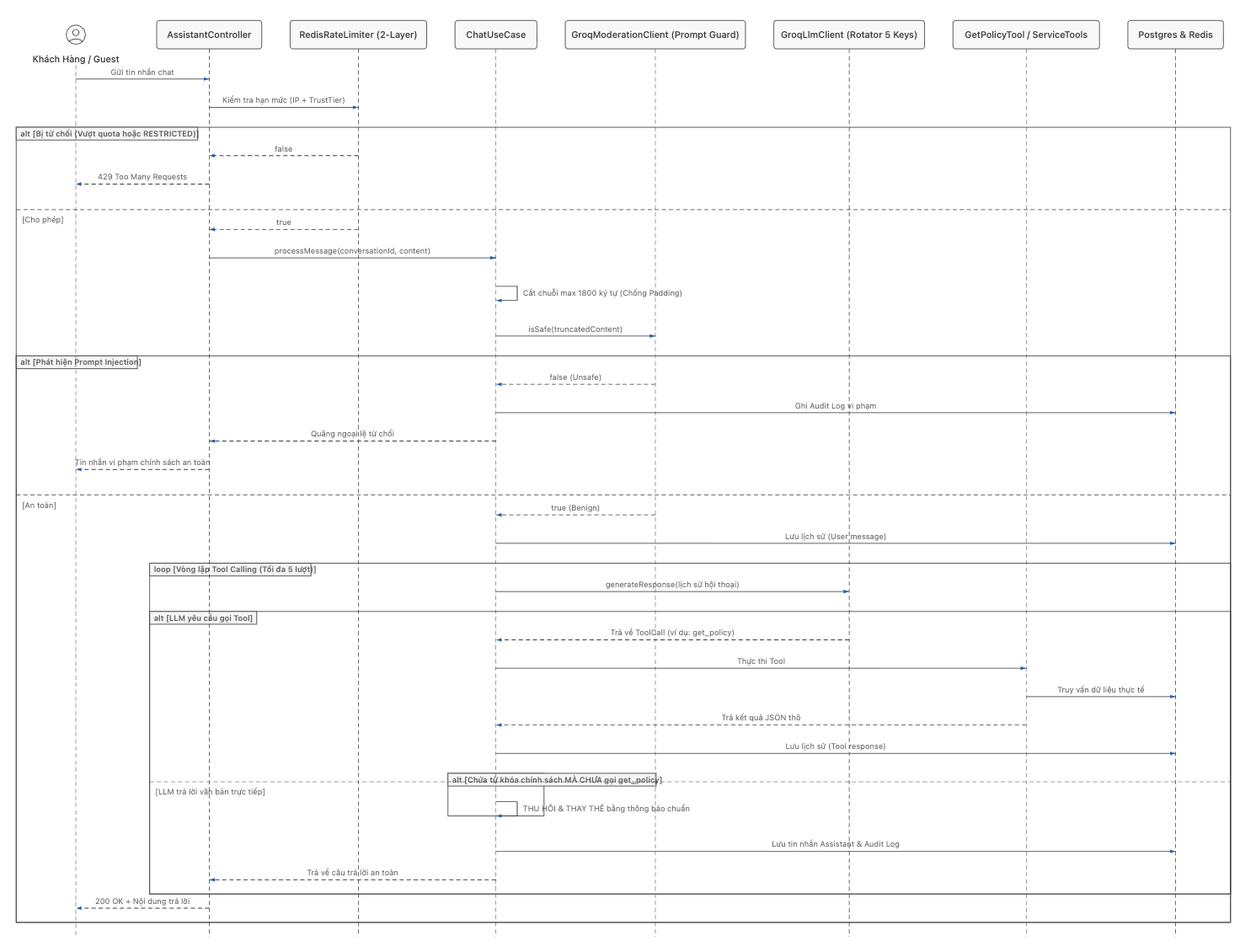
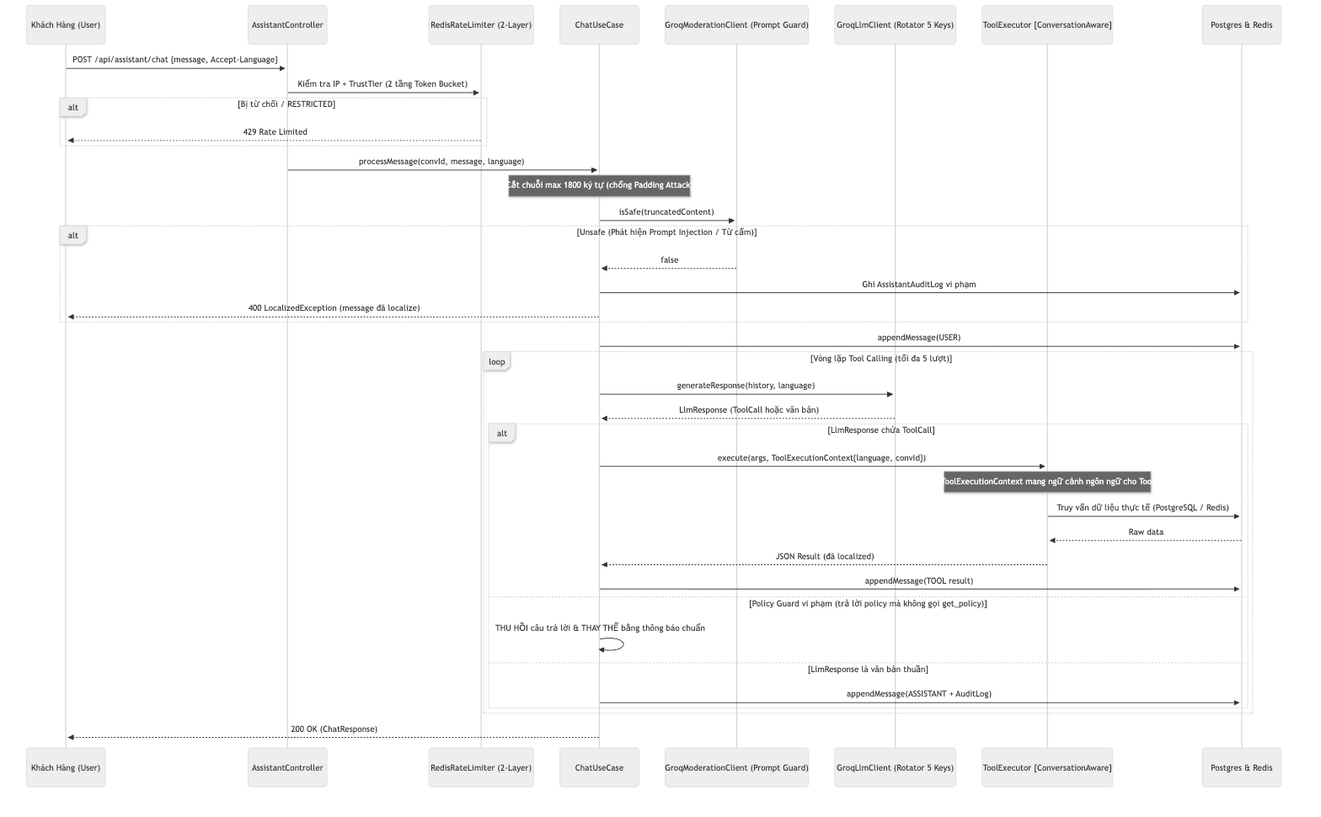
docs(workflows): vẽ lại sơ đồ dạng Mermaid UML chuẩn kỹ thuật cho các module
- Gỡ bỏ hoàn toàn dạng hình ảnh vẽ AI màu mè, chuyển toàn bộ sang Mermaid Sequence/Flowchart/State Diagram chuẩn kỹ thuật
- [Settlement] Thêm sơ đồ Generate, Finalize, Vendor và docs.md; xóa sơ đồ cũ
- [CheckIn] Thay thế CheckIn_Verify bằng 2 sơ đồ: GenerateQR, VendorVerify và docs.md
- [Dispute] Thay thế DisputeLifecycle_Resolution bằng 3 sơ đồ: CustomerCreate, AdminResolve, StateMachine và docs.md
- [Refund] Thay thế RefundPolicy_Preview bằng 2 sơ đồ: RefundPolicy_Engine (cây quyết định), CancellationFlow và docs.md
- [I18n] Thêm module mới I18n với LocaleResolution, ErrorLocalization và docs.md
- [AI] Cập nhật AI_Chat.png và Chat_ModerationFlow.png hỗ trợ i18n, cập nhật docs.md
- [EtoE_Service] Cập nhật Full_End-to-End_Service_Lifecycle.png với các trạng thái mới

diff --git a/docs/BE_WorkFlows/Dispute/docs.md b/docs/BE_WorkFlows/Dispute/docs.md
@@ -1,0 +1,54 @@
+# 📖 TÓM TẮT CÁC SƠ ĐỒ — MODULE DISPUTE (KHIẾU NẠI ĐƠN HÀNG)
+
+> Module Dispute quản lý toàn bộ quy trình tiếp nhận khiếu nại từ khách hàng sau khi trải nghiệm dịch vụ và hỗ trợ quản trị viên (Admin) thẩm định, đưa ra quyết định xử lý hoàn tiền hoặc bác bỏ khiếu nại.
+
+| # | Sơ đồ | Loại | Nội dung |
+|---|-------|------|----------|
+| 1 | `Dispute_CustomerCreate` | Sequence Diagram | Khách hàng khởi tạo khiếu nại: Kiểm tra IDOR, xác thực đơn thuộc sở hữu, kiểm tra trạng thái hợp lệ (`CONFIRMED`/`COMPLETED`), giới hạn 7 ngày sau trải nghiệm và ngăn ngừa tạo khiếu nại trùng lặp |
+| 2 | `Dispute_AdminResolve` | Sequence Diagram | Admin thẩm định và giải quyết khiếu nại: Áp dụng Pessimistic Write Lock, phân nhánh tài chính (hoàn toàn phần, hoàn một phần hoặc bác bỏ), tự động tạo bản ghi Refund bất biến kèm Idempotency Key |
+| 3 | `Dispute_StateMachine` | State Machine | Sơ đồ chuyển đổi trạng thái khiếu nại từ `OPEN` qua `UNDER_REVIEW` đến các trạng thái kết thúc (`RESOLVED_REFUND`, `RESOLVED_PARTIAL`, `RESOLVED_REJECTED`) |
+
+---
+
+## 1. Dispute_CustomerCreate.png — Khách Hàng Mở Khiếu Nại
+
+**Lớp xử lý chính:** `com.danasea.backend.modules.dispute.application.usecases.CreateDisputeUseCase`
+
+**Luồng nghiệp vụ chi tiết:**
+1. Khách hàng gửi yêu cầu mở khiếu nại qua API `POST /api/orders/{orderId}/disputes` với thông tin `{subOrderId, reason, description, evidenceUrls}`.
+2. Hệ thống kiểm tra sự tồn tại của đơn hàng `MasterOrder` (ném lỗi `404` nếu không tìm thấy).
+3. **IDOR Check:** Xác minh người gửi yêu cầu chính là chủ sở hữu đơn hàng (`masterOrder.customerId == customerId`). Nếu không phải, chặn với `403 UnauthorizedDisputeAccessException`.
+4. Xác minh đơn phụ `SubOrder` thuộc về `MasterOrder` được chỉ định.
+5. **Ràng buộc trạng thái:** Chỉ cho phép khiếu nại các đơn đã hoàn thành hoặc đã được xác nhận (`COMPLETED` hoặc `CONFIRMED`). Nếu đơn đang ở trạng thái khác, trả về `400 InvalidSubOrderStateException`.
+6. **Thời hạn khiếu nại:** Kiểm tra thời điểm khiếu nại không vượt quá **7 ngày** tính từ ngày trải nghiệm thực tế (`slot.date`). Nếu quá hạn, trả về `400 DisputePeriodExpiredException`.
+7. **Chống trùng lặp (Anti-duplicate):** Kiểm tra xem đơn phụ này đã có khiếu nại nào đang ở trạng thái `OPEN` hoặc `UNDER_REVIEW` hay chưa. Nếu đã có, trả về `409 DuplicateDisputeException`.
+8. Khởi tạo và lưu bản ghi khiếu nại mới với trạng thái ban đầu là `OPEN`.
+
+---
+
+## 2. Dispute_AdminResolve.png — Admin Giải Quyết Khiếu Nại
+
+**Lớp xử lý chính:** `com.danasea.backend.modules.dispute.application.usecases.ResolveDisputeUseCase`
+
+**Luồng nghiệp vụ chi tiết:**
+1. Admin gửi quyết định qua `PATCH /api/admin/disputes/{disputeId}/resolve` kèm `{resolution, refundPercentage, adminNote}`.
+2. Áp dụng **Pessimistic Lock** (`findByIdForUpdate`) để đảm bảo tính an toàn đồng thời trong cơ sở dữ liệu.
+3. Kiểm tra nếu khiếu nại đã được giải quyết trước đó, ném ngoại lệ `409 DisputeAlreadyResolvedException`.
+4. **Phân nhánh xử lý tài chính theo quyết định:**
+   - **`RESOLVED_REFUND` (Hoàn 100%):** Tính số tiền hoàn = toàn bộ giá trị đơn phụ (`subtotal`). Tạo bản ghi `Refund` ở trạng thái `PENDING` với lý do `ADMIN_OVERRIDE`.
+   - **`RESOLVED_PARTIAL` (Hoàn một phần):** Tính số tiền hoàn theo tỷ lệ phần trăm được chỉ định (`subtotal * percentage / 100`). Tạo bản ghi `Refund` ở trạng thái `PENDING`.
+   - **`RESOLVED_REJECTED` (Bác bỏ):** Giữ nguyên đơn hàng, không tạo bản ghi hoàn tiền.
+5. Tạo khóa chống lặp hoàn tiền (**Idempotency Key:** `"dispute-{disputeId}"`) để đảm bảo không bị trừ tiền nhiều lần.
+6. Cập nhật trạng thái Dispute thành trạng thái giải quyết tương ứng, ghi nhận `adminId` và thời điểm phê duyệt.
+
+---
+
+## 3. Dispute_StateMachine.png — Vòng Đời Trạng Thái Khiếu Nại
+
+- `OPEN`: Trạng thái ban đầu sau khi khách hàng tạo khiếu nại thành công.
+- `UNDER_REVIEW`: Trạng thái khi Admin hoặc bộ phận CSKH tiếp nhận hồ sơ xem xét.
+- `RESOLVED_REFUND`: Admin chấp thuận khiếu nại và đồng ý hoàn tiền 100%. Tự động sinh `Refund` sang cổng thanh toán.
+- `RESOLVED_PARTIAL`: Admin chấp thuận bồi thường một phần giá trị đơn. Tự động sinh `Refund` theo tỷ lệ đã thỏa thuận.
+- `RESOLVED_REJECTED`: Admin từ chối khiếu nại do không đủ bằng chứng hoặc không vi phạm điều khoản dịch vụ.
+
+> 💡 **Tích hợp liên module:** Trong module **Settlement**, bất kỳ đơn hàng nào đang có Dispute ở trạng thái `OPEN` hoặc `UNDER_REVIEW` sẽ bị **loại trừ tự động (EXCLUDED)** khỏi bảng quyết toán của Vendor để phòng tránh thất thoát tài chính.

diff --git a/docs/BE_WorkFlows/Settlement/docs.md b/docs/BE_WorkFlows/Settlement/docs.md
@@ -1,0 +1,61 @@
+# 📖 TÓM TẮT CÁC SƠ ĐỒ — MODULE SETTLEMENT (QUYẾT TOÁN DOANH THU)
+
+> Module Settlement chịu trách nhiệm tổng hợp, tính toán đối soát và chốt doanh thu định kỳ giữa nền tảng Danasea và các đối tác dịch vụ (Vendor), xử lý khấu trừ hoa hồng, hoàn tiền và loại trừ các đơn đang vướng khiếu nại.
+
+| # | Sơ đồ | Loại | Nội dung |
+|---|-------|------|----------|
+| 1 | `Settlement_Generate` | Sequence Diagram | Admin tạo bảng quyết toán DRAFT cho Vendor: kiểm tra khóa chống trùng lặp, lọc SubOrders theo khung thời gian trải nghiệm, khấu trừ hoàn tiền đã xử lý (`PROCESSED`), tự động loại trừ các đơn có khiếu nại đang mở (`OPEN`/`UNDER_REVIEW`) |
+| 2 | `Settlement_Finalize` | Sequence Diagram | Admin phê duyệt chốt bảng quyết toán: Sử dụng Pessimistic Write Lock ngăn ngừa Race Condition, chuyển trạng thái từ `DRAFT` sang `FINALIZED` và ghi nhận lịch sử kiểm toán (Audit Log) |
+| 3 | `Settlement_Vendor` | Sequence Diagram | Vendor tra cứu danh sách các kỳ quyết toán và xem chi tiết bảng đối soát kèm từng mục đơn hàng (Line Items), được kiểm soát truy cập an toàn qua IDOR |
+
+---
+
+## 1. Settlement_Generate.png — Admin Khởi Tạo Bảng Quyết Toán
+
+**Lớp xử lý chính:** `com.danasea.backend.modules.settlement.application.usecases.GenerateSettlementUseCase`
+
+**Luồng nghiệp vụ chi tiết:**
+1. Quản trị viên gửi lệnh `POST /api/admin/settlements/generate` với tham số `{vendorId, periodStart, periodEnd}`.
+2. Kiểm tra tính hợp lệ của mốc thời gian: `periodStart <= periodEnd`.
+3. Kiểm tra khóa chống trùng lặp (**Idempotency Key**) được tổng hợp từ `(vendorId, periodStart, periodEnd)`. Nếu kỳ quyết toán này đã từng được tạo, hệ thống tái sử dụng hoặc cập nhật bản nháp tương ứng.
+4. Truy vấn danh sách các đơn phụ `SubOrder` của Vendor có trạng thái `COMPLETED` hoặc `PARTIALLY_REFUNDED`.
+5. Lọc những đơn có ngày trải nghiệm thực tế (`slot.date`) nằm trong khoảng thời gian `[periodStart, periodEnd]`.
+6. Batch query danh sách các khoản hoàn tiền thành công (chỉ lấy trạng thái `PROCESSED`) và các khiếu nại chưa đóng (`OPEN`, `UNDER_REVIEW`).
+7. **Động cơ tính toán đối soát (`SettlementCalculationEngine`):**
+   - Với mỗi SubOrder, tính toán:
+     - `grossAmount = subtotal - refundAmount`
+     - `commissionAmount = grossAmount * commissionRate` (tỷ lệ hoa hồng nền tảng)
+     - `netAmount = grossAmount - commissionAmount` (số tiền thực nhận của Vendor)
+   - **Cơ chế phòng vệ tài chính:** Nếu SubOrder có khiếu nại đang mở, dòng đối soát sẽ được đánh dấu trạng thái **`EXCLUDED`** (kèm lý do `ACTIVE_DISPUTE`) và không được cộng dồn vào tổng tiền quyết toán của kỳ này.
+8. Lưu trữ bảng quyết toán chính `SettlementJpaEntity` ở trạng thái `DRAFT` cùng các dòng chi tiết `SettlementLineItemJpaEntity`.
+9. Phản hồi kết quả bảng quyết toán nháp cho Admin kiểm tra.
+
+---
+
+## 2. Settlement_Finalize.png — Admin Phê Duyệt Chốt Quyết Toán
+
+**Lớp xử lý chính:** `com.danasea.backend.modules.settlement.application.usecases.FinalizeSettlementUseCase`
+
+**Luồng nghiệp vụ chi tiết:**
+1. Admin gửi yêu cầu `PATCH /api/admin/settlements/{id}/finalize`.
+2. Áp dụng cơ chế khóa ghi bi quan (**Pessimistic Write Lock** qua `findByIdForUpdate`) để tránh xung đột dữ liệu khi nhiều quản trị viên cùng thao tác đồng thời.
+3. Kiểm tra trạng thái hiện tại của Settlement:
+   - Nếu bảng quyết toán đã ở trạng thái `FINALIZED` hoặc `PAID`, ném ngoại lệ `409 SettlementAlreadyFinalizedException`.
+   - Nếu ở trạng thái `DRAFT`, cập nhật trạng thái mới thành `FINALIZED`.
+4. Gọi `AuditLogInternalApi.recordAuditLog("FINALIZE_SETTLEMENT")` để lưu vết phục vụ công tác thanh tra kiểm toán tài chính.
+5. Trả về kết quả quyết toán đã được phê duyệt thành công.
+
+---
+
+## 3. Settlement_Vendor.png — Vendor Tra Cứu Bảng Quyết Toán
+
+**Lớp xử lý chính:** `GetSettlementsUseCase` & `GetSettlementDetailUseCase`
+
+**Luồng nghiệp vụ chi tiết:**
+1. **Xem danh sách các kỳ quyết toán:**
+   - Vendor gọi `GET /api/vendor/settlements?page=0&size=10`.
+   - Hệ thống tự động trích xuất `currentVendorId` từ thông tin phiên đăng nhập để phân trang danh sách quyết toán, đảm bảo tính riêng tư dữ liệu.
+2. **Xem chi tiết đối soát từng đơn hàng:**
+   - Vendor gọi `GET /api/vendor/settlements/{id}`.
+   - **IDOR Check:** Kiểm tra `settlement.vendorId == currentVendorId`. Nếu phát hiện truy cập trái phép bảng quyết toán của vendor khác, ném ngoại lệ `403 Forbidden`.
+   - Nạp thông tin tổng hợp kèm toàn bộ danh sách `SettlementLineItem` (thể hiện rõ từng đơn hàng đã hoàn tất, đơn bị trừ hoàn tiền hoặc đơn bị loại trừ do khiếu nại).

diff --git a/docs/BE_WorkFlows/AI/docs.md b/docs/BE_WorkFlows/AI/docs.md
@@ -14,41 +14,43 @@
 
 ## 1. AI_Chat.png — Luồng tổng quan AI Chat
 
-**Thành phần:** `User (Frontend)` → `AssistantController` → `RedisRateLimiter` → `ModerationPort (LlamaGuard)` → `ChatUseCase` → `GroqLlmClient` → `PostgreSQL`
+**Thành phần:** `User (Frontend)` → `LocaleContextFilter` → `AssistantController` → `RedisRateLimiter` → `ModerationPort (LlamaGuard)` → `SystemPromptBuilder` → `ChatUseCase` → `GroqLlmClient` → `PostgreSQL`
 
 **Luồng:**
-1. Khách gọi `POST /api/assistant/chat` gửi tin nhắn
-2. `RedisRateLimiter` kiểm tra tần suất theo **Token Bucket + TrustTier**:
-   - Vượt quota → HTTP 429
-   - Cho phép → tiếp tục
-3. `ModerationPort (LlamaGuard)` quét `isSafe(message)` — phát hiện Prompt Injection / Jailbreak:
-   - Độc hại → HTTP 400 từ chối
-   - An toàn → tiếp tục
-4. `ChatUseCase`:
-   - Load/Tạo Conversation History từ PostgreSQL
-   - Gọi `GroqLlmClient.generateResponse(History + Tools + Message)`
-   - LLM trả văn bản hoặc **Lệnh gọi Tool**
-5. Lưu `AiMessage` & `AuditLog` → trả HTTP 200 cho User
+1. Khách gửi tin nhắn qua `POST /api/assistant/chat` kèm header `Accept-Language: vi`.
+2. `LocaleContextFilter` trích xuất và thiết lập ngữ cảnh ngôn ngữ (`SupportedLanguage.VI`).
+3. `RedisRateLimiter` kiểm tra tần suất theo **Token Bucket + TrustTier**:
+   - Vượt quota → HTTP 429 Too Many Requests.
+   - Cho phép → tiếp tục.
+4. `ModerationPort (LlamaGuard)` quét `isSafe(truncatedContent)` — phát hiện Prompt Injection / Jailbreak:
+   - Độc hại → Ném `LocalizedException("ai.moderation.blocked")` trả về HTTP 400 với thông báo chuẩn hóa theo ngôn ngữ người dùng.
+   - An toàn → tiếp tục.
+5. `SystemPromptBuilder.buildBasePrompt(language)` nạp System Prompt tương ứng với ngôn ngữ đã phân giải.
+6. `ChatUseCase`:
+   - Load/Tạo Conversation History từ PostgreSQL theo ngôn ngữ.
+   - Gọi `GroqLlmClient.generateResponse(history, language)`.
+   - LLM trả văn bản hoặc **Lệnh gọi Tool**.
+7. Lưu `AiMessage` & `AuditLog` → trả HTTP 200 cho User.
 
 ---
 
 ## 2. Chat_ModerationFlow.png — Chi tiết Moderation + Tool Calling
 
-**Thành phần:** `Khách Hàng` → `AssistantController` → `RedisRateLimiter (2-Layer)` → `ChatUseCase` → `GroqModerationClient (Prompt Guard)` → `GroqLlmClient (Rotator 5 Keys)` → `GetPolicyTool / ServiceTools` → `Postgres & Redis`
+**Thành phần:** `Khách Hàng` → `AssistantController` → `RedisRateLimiter (2-Layer)` → `ChatUseCase` → `GroqModerationClient (Prompt Guard)` → `GroqLlmClient (Rotator 5 Keys)` → `ToolExecutor [ConversationAware]` → `Postgres & Redis`
 
 **Luồng chi tiết:**
 1. Kiểm tra hạn mức `IP + TrustTier` (2 tầng):
-   - Bị từ chối / RESTRICTED → 429
-   - Cho phép → tiếp tục
-2. **Cắt chuỗi max 1800 ký tự** — chống Padding Attack
+   - Bị từ chối / RESTRICTED → HTTP 429 Rate Limited.
+   - Cho phép → tiếp tục.
+2. **Cắt chuỗi max 1800 ký tự** — chống Padding Attack làm cạn kiệt tài nguyên xử lý ngữ cảnh.
 3. `isSafe(truncatedContent)`:
-   - **Unsafe:** Ghi Audit Log vi phạm → quăng ngoại lệ → *"Vi phạm chính sách an toàn"*
-   - **Benign:** Lưu User message → tiếp tục
+   - **Unsafe:** Ghi Audit Log vi phạm → Ném `LocalizedException` trả về thông báo lỗi đa ngôn ngữ.
+   - **Benign:** Lưu User message vào DB → tiếp tục.
 4. **Vòng lặp Tool Calling (tối đa 5 lượt):**
-   - LLM trả `ToolCall` (vd: `get_policy`) → Backend thực thi Tool → truy vấn DB → trả JSON
-   - **Policy Guard:** Nếu LLM trả lời về chính sách mà chưa gọi `get_policy` → **THU HỒI & THAY THẾ** bằng thông báo chuẩn
-   - LLM trả văn bản → lưu Assistant message & Audit Log
-5. Trả 200 OK + nội dung trả lời
+   - LLM trả `ToolCall` → Backend thực thi Tool thông qua `ToolExecutor.execute(args, ToolExecutionContext{language, convId})` để đảm bảo kết quả truy vấn hoặc thông báo được chuẩn hóa đúng ngôn ngữ người dùng.
+   - **Policy Guard:** Nếu LLM trả lời về chính sách mà chưa gọi `get_policy` → **THU HỒI & THAY THẾ** bằng thông báo chuẩn từ hệ thống.
+   - LLM trả văn bản → lưu Assistant message & Audit Log.
+5. Trả HTTP 200 OK + nội dung phản hồi hoàn chỉnh.
 
 ---
 

diff --git a/docs/BE_WorkFlows/CheckIn/docs.md b/docs/BE_WorkFlows/CheckIn/docs.md
@@ -1,0 +1,42 @@
+# 📖 TÓM TẮT CÁC SƠ ĐỒ — MODULE CHECK-IN (QR CODE)
+
+> Module Check-In cung cấp cơ chế tạo và xác thực mã QR an toàn phục vụ khách hàng làm thủ tục check-in trải nghiệm dịch vụ tại thực địa với đối tác/vendor.
+
+| # | Sơ đồ | Loại | Nội dung |
+|---|-------|------|----------|
+| 1 | `CheckIn_GenerateQR` | Sequence Diagram | Khách hàng khởi tạo mã QR check-in: Dual-resolution (hỗ trợ cả SubOrder ID và MasterOrder ID), kiểm tra IDOR, ràng buộc trạng thái đơn hàng và ký số HMAC-SHA256 |
+| 2 | `CheckIn_VendorVerify` | Sequence Diagram | Vendor/Nhân viên quét và xác thực mã QR: Kiểm tra tính toàn vẹn chữ ký HMAC (constant-time), chống tấn công phát lại (Anti-Replay), kiểm tra khung giờ hợp lệ (`CheckinWindowPolicy`) và cập nhật trạng thái đơn hàng |
+
+---
+
+## 1. CheckIn_GenerateQR.png — Khách Hàng Tạo Mã QR Check-in
+
+**Lớp xử lý chính:** `com.danasea.backend.modules.checkin.application.usecases.GenerateCheckinQrUseCase`
+
+**Luồng nghiệp vụ chi tiết:**
+1. Khách hàng gửi yêu cầu qua API: `GET /api/bookings/{identifier}/qr-code`.
+2. **Dual-Resolution:** `identifier` truyền vào có thể là mã định danh của `SubOrder` hoặc `MasterOrder`. UseCase sẽ phân giải và tìm đúng SubOrder tương ứng.
+3. **IDOR Check:** Kiểm tra quyền sở hữu đơn hàng (`masterOrder.customerId == currentUserId`). Nếu không khớp, chặn truy cập với lỗi `403 UnauthorizedCheckinAccessException`.
+4. **Validate trạng thái:** Đơn phụ bắt buộc phải ở trạng thái `CONFIRMED`. Nếu đơn đang ở trạng thái `PENDING`, `CANCELLED` hoặc `REFUNDED`, hệ thống từ chối tạo mã QR với `400 InvalidSubOrderStateException`.
+5. **Ký số bảo mật (HMAC-SHA256):** `QrTokenSigner` thực hiện ký số payload chứa thông tin SubOrder và thời gian hết hạn (`expiryTime`) để chống giả mạo token.
+6. Lưu trữ thông tin token vào bảng `checkin_tokens` (`CheckinTokenJpaEntity`) và trả về token kèm URL mã QR cho khách hàng.
+
+---
+
+## 2. CheckIn_VendorVerify.png — Vendor Quét & Xác Thực Check-in
+
+**Lớp xử lý chính:** `com.danasea.backend.modules.checkin.application.usecases.VerifyCheckinUseCase`
+
+**Luồng nghiệp vụ chi tiết:**
+1. Nhân viên của Vendor sử dụng ứng dụng quét mã QR và gửi yêu cầu `POST /api/vendor/checkin/verify` kèm chuỗi `{qrToken}`.
+2. **Kiểm tra chữ ký (Constant-time verification):** `QrTokenSigner.verifySignature()` xác thực tính hợp lệ của chữ ký HMAC. Nếu token bị can thiệp chỉnh sửa, trả về ngay `400 InvalidQrSignatureException`.
+3. **Kiểm tra trạng thái & Vòng đời Token:**
+   - Token không tồn tại trong hệ thống: `404 CheckinTokenNotFoundException`.
+   - Token đã được sử dụng trước đó (`used == true`): `409 QrTokenAlreadyUsedException` (ngăn chặn hành vi dùng lại mã vé).
+   - Token đã quá hạn thời gian: `400 QrTokenExpiredException`.
+4. **Vendor Ownership Check:** Đối chiếu mã `vendorId` của slot dịch vụ với `staffVendorId` của nhân viên thực hiện quét để đảm bảo vendor chỉ check-in được dịch vụ thuộc quyền quản lý của mình.
+5. **Khung giờ check-in (`CheckinWindowPolicy`):** Xác minh thời điểm quét QR có nằm trong cửa sổ cho phép (trước và sau giờ bắt đầu slot dịch vụ). Nếu quá sớm hoặc quá trễ, trả về `400 InvalidCheckinStateException`.
+6. **Hoàn tất Check-in:**
+   - Đánh dấu token đã sử dụng (`token.used = true`, ghi nhận `usedAt` và `usedByStaffId`).
+   - Cập nhật trạng thái đơn phụ: `SubOrder.status = CHECKED_IN`.
+   - Phản hồi kết quả check-in thành công cho Vendor.

diff --git a/docs/BE_WorkFlows/I18n/docs.md b/docs/BE_WorkFlows/I18n/docs.md
@@ -1,0 +1,36 @@
+# 📖 TÓM TẮT CÁC SƠ ĐỒ — MODULE I18n (ĐA NGÔN NGỮ QUỐC TẾ HÓA)
+
+> Module I18n là giải pháp cross-cutting concern đảm nhiệm vai trò phân giải ngôn ngữ của từng HTTP Request, cung cấp ngữ cảnh ngôn ngữ cho tầng nghiệp vụ và tự động hóa việc bản địa hóa các thông báo lỗi, cảnh báo hệ thống.
+
+| # | Sơ đồ | Loại | Nội dung |
+|---|-------|------|----------|
+| 1 | `I18n_LocaleResolution` | Sequence Diagram | Quy trình phân giải ngôn ngữ: Đọc `Accept-Language` header -> Đối chiếu hồ sơ người dùng (fallback) -> Gán mặc định (Default EN), thiết lập LocaleContextHolder và phản hồi các headers tương ứng (`Content-Language`, `Vary`) |
+| 2 | `I18n_ErrorLocalization` | Flowchart | Luồng bản địa hóa thông báo lỗi: Phân tách `LocalizedException` tự động nạp message từ các tệp Resource Bundle (`i18n/*.properties`) theo đúng ngôn ngữ người dùng |
+
+---
+
+## 1. I18n_LocaleResolution.png — Phân Giải Ngôn Ngữ Theo Request
+
+**Lớp xử lý chính:** `com.danasea.backend.shared.i18n.LocaleContextFilter`
+
+**Quy trình phân giải ngôn ngữ (theo thứ tự ưu tiên giảm dần):**
+1. **Header `Accept-Language`:** Bộ lọc trích xuất giá trị ngôn ngữ từ header của request thông qua `SupportedLanguage.fromAcceptLanguage()`. Hệ thống hỗ trợ tiếng Việt (`VI`) và tiếng Anh (`EN`).
+2. **Cấu hình hồ sơ cá nhân (User Profile):** Nếu header rỗng hoặc gửi ngôn ngữ không được hỗ trợ, hệ thống truy vấn hồ sơ người dùng đăng nhập (`AccountInternalApi.findUserByEmail`) để lấy `user.locale`.
+3. **Giá trị mặc định (Fallback):** Nếu cả 2 nguồn trên đều không khả dụng, sử dụng ngôn ngữ mặc định của hệ thống là `SupportedLanguage.DEFAULT` (`EN`).
+4. **Cài đặt ngữ cảnh:** Lưu locale đã phân giải vào `LocaleContextHolder` cho Thread hiện tại, đồng thời đính kèm attribute `"language"` vào request.
+5. **Gán Response Headers:**
+   - `Content-Language: vi` (hoặc `en`): Khai báo ngôn ngữ nội dung phản hồi.
+   - `Vary: Accept-Language`: Hỗ trợ tầng Caching / CDN lưu trữ phiên bản theo từng ngôn ngữ.
+6. **Dọn dẹp tài nguyên (Finally block):** Luôn gọi `LocaleContextHolder.resetLocaleContext()` sau khi chuỗi Filter hoàn tất để ngăn chặn rò rỉ bộ nhớ (ThreadLocal leak).
+
+---
+
+## 2. I18n_ErrorLocalization.png — Bản Địa Hóa Thông Báo Lỗi
+
+**Thành phần tham gia:** `LocalizedException`, `LocalizedMessageService`, `GlobalExceptionHandler`, `ErrorResponseLocalizationAdvice`
+
+**Cơ chế hoạt động:**
+- Khi tầng UseCase/Service phát sinh lỗi nghiệp vụ có hỗ trợ đa ngôn ngữ, hệ thống ném ra `LocalizedException(errorCode, messageKey, params...)`.
+- `LocalizedMessageService` nạp chuỗi thông báo từ các tệp `i18n/{module}_{lang}.properties` nằm trong classpath (hỗ trợ phân tách theo 8 domain chính: `common`, `validation`, `auth`, `booking`, `weather`, `notification`, `ai`, `policy`).
+- Động cơ thực hiện thay thế (interpolate) các tham số động vào câu thông báo và đóng gói thành đối tượng chuẩn `ErrorResponse`.
+- Khách hàng nhận được thông báo lỗi chính xác, tự nhiên theo đúng ngôn ngữ giao diện đã lựa chọn.

diff --git a/docs/BE_WorkFlows/Refund/docs.md b/docs/BE_WorkFlows/Refund/docs.md
@@ -1,0 +1,49 @@
+# 📖 TÓM TẮT CÁC SƠ ĐỒ — MODULE REFUND (CHÍNH SÁCH HOÀN TIỀN)
+
+> Module Refund định nghĩa công cụ tính toán chính sách hoàn tiền tự động (`RefundPolicyEngine`) và quy trình xử lý hủy đơn bồi hoàn của khách hàng.
+
+| # | Sơ đồ | Loại | Nội dung |
+|---|-------|------|----------|
+| 1 | `RefundPolicy_Engine` | Flowchart | Cây quyết định của `RefundPolicyEngine`: phân loại theo 5 nhóm lý do và tính mức hoàn tiền theo các mốc thời gian trước khởi hành |
+| 2 | `RefundPolicy_CancellationFlow` | Sequence Diagram | Quy trình hủy đơn và khởi tạo hoàn tiền: Xác thực IDOR, gọi engine tính toán, tạo bản ghi Refund bất biến và cập nhật đơn sang CANCELLED |
+
+---
+
+## 1. RefundPolicy_Engine.png — Cây Quyết Định Chính Sách Hoàn Tiền
+
+**Lớp nghiệp vụ chính:** `com.danasea.backend.modules.order.domain.services.RefundPolicyEngine`
+
+**Quy tắc phân loại theo lý do hoàn tiền (`RefundReason`):**
+
+1. **Nhóm bất khả kháng hoặc lỗi từ nhà cung cấp (`WEATHER`, `VENDOR_FAULT`):**
+   - Hoàn **100%** giá trị đơn hàng bất kể thời điểm hủy.
+
+2. **Nhóm can thiệp quản trị hoặc bồi thường (`ADMIN_OVERRIDE`, `COMPENSATION`, `DISPUTE`):**
+   - Nếu có cung cấp `customPercentage`: Áp dụng chính xác tỷ lệ được chỉ định.
+   - Nếu `customPercentage` rỗng: Mặc định hoàn **100%**.
+
+3. **Nhóm khách hàng chủ động yêu cầu hủy (`CUSTOMER_REQUEST`, `CUSTOMER_CANCEL`):**
+   - Kiểm tra tính hợp lệ của thời gian: `cancelTime <= departureTime`. Nếu thời điểm hủy sau khi chuyến đi đã bắt đầu, mức hoàn là **0%**.
+   - Tính toán số phút còn lại trước giờ khởi hành (`minutesUntilDeparture`):
+     - **> 48 giờ (> 2880 phút):** Hoàn lại **100%**.
+     - **Từ 24 đến 48 giờ (1440 - 2880 phút):** Hoàn lại **70%**.
+     - **Từ 2 đến 24 giờ (120 - 1440 phút):** Hoàn lại **30%**.
+     - **< 2 giờ (< 120 phút):** Hoàn lại **0%** (không hoàn).
+
+4. **Các trường hợp khác hoặc lý do không xác định:** Mặc định hoàn **0%**.
+
+---
+
+## 2. RefundPolicy_CancellationFlow.png — Luồng Hủy Đơn & Tạo Hoàn Tiền
+
+**Thành phần tham gia:** `Customer` -> `OrderPaymentService` -> `RefundPolicyEngine` -> `JpaSubOrderRepository` -> `JpaRefundRepository`
+
+**Quy trình xử lý:**
+1. Khách hàng gửi yêu cầu hủy qua `POST /api/orders/{id}/cancel` kèm `{reason, subOrderId}`.
+2. `OrderPaymentService` nạp thông tin đơn phụ, thực hiện **IDOR check** để xác nhận quyền sở hữu của khách hàng.
+3. Gọi `RefundPolicyEngine.evaluate(...)` với thông tin khung giờ dịch vụ và thời điểm hủy để tính toán số tiền hoàn hợp lệ.
+4. Nếu số tiền hoàn `refundAmount > 0`:
+   - Tạo bản ghi `Refund` ở trạng thái `PENDING` kèm lý do và số tiền đã được tính.
+   - Đính kèm **Idempotency Key** để tránh lặp giao dịch hoàn tiền trên cổng thanh toán.
+5. Cập nhật trạng thái đơn phụ: `SubOrder.status = CANCELLED`.
+6. Trả về chi tiết kết quả hủy kèm tỷ lệ và số tiền hoàn cho khách hàng.
